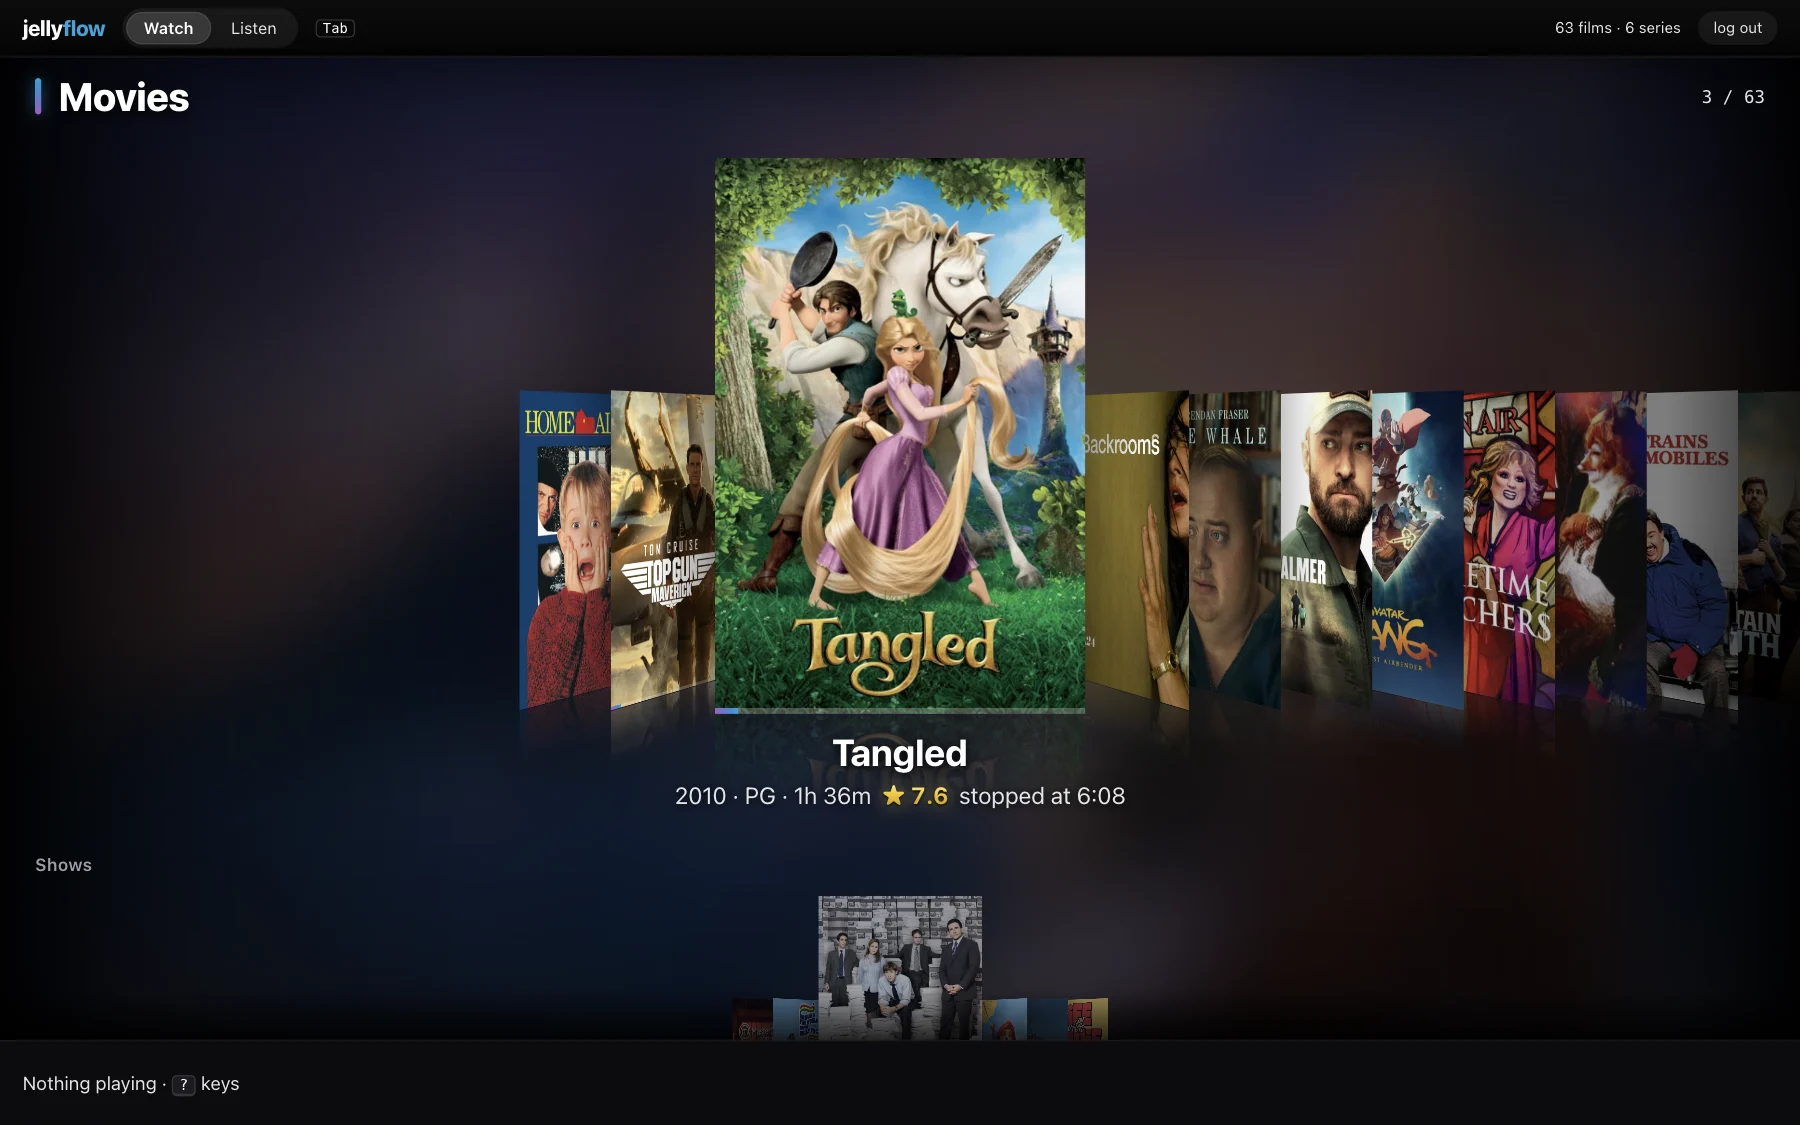
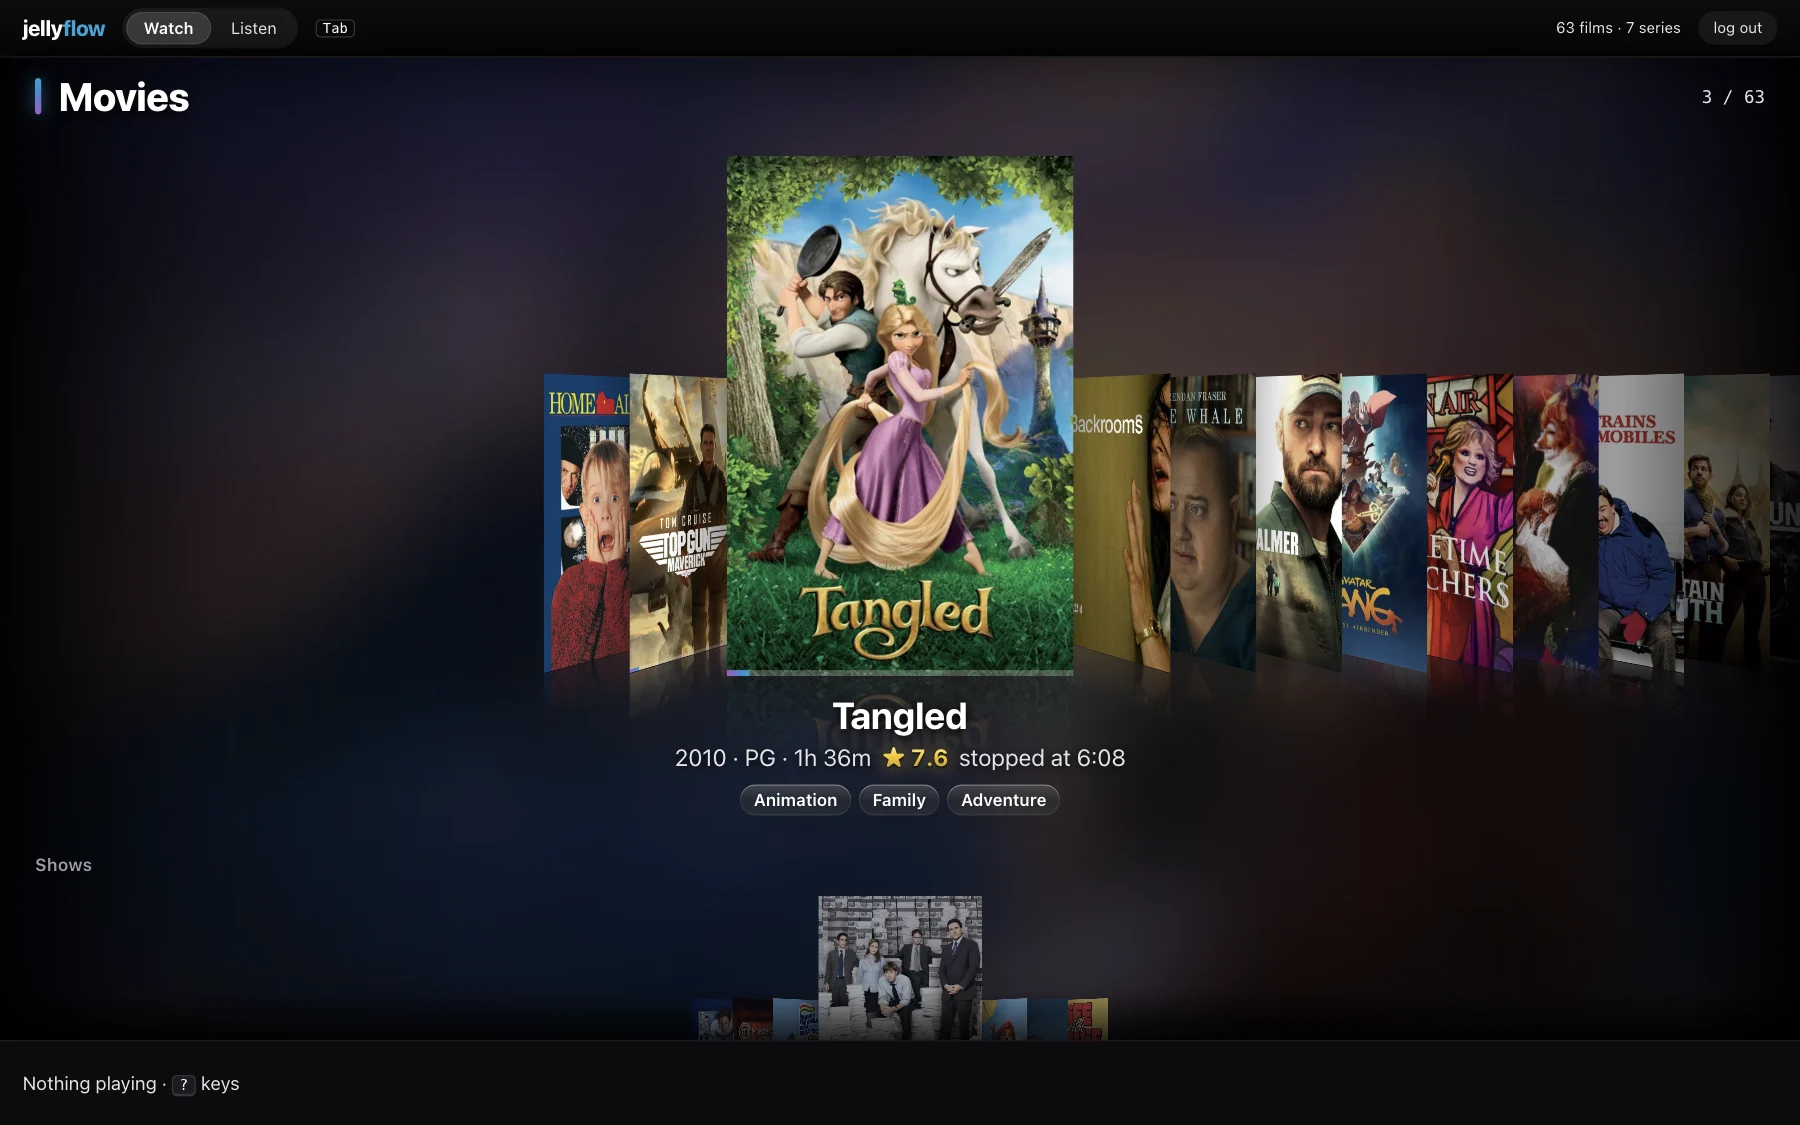
Merge pull request #3 from popconst/genre-labels
Watch: genre labels under the title in the middle

Changed region(s): [[0.28, 0.1244, 1.0, 0.7156], [0.8711, 0.0, 0.9022, 0.0311], [0.3733, 0.9022, 0.4044, 0.9333]]

diff --git a/src/web/Watch.svelte b/src/web/Watch.svelte
@@ -34,10 +34,12 @@
   /** How far down a poster's reflection shows, and how much of it a row keeps clear below it (in poster heights) */
   const REFLECTION = 0.16
   const BELOW_FLOOR = 0.08
-  /** Above each row its name: big over the row with the keys, so there's no doubt which it is; under that one, its title (px) */
+  /** Above each row its name: big over the row with the keys, so there's no doubt which it is; under that one, its title, what it is and its genres (px) */
   const LABEL = 30
   const LABEL_ON = 54
-  const CAPTION = 72
+  const CAPTION = 104
+  /** How many genres the caption shows: the main ones, first as Jellyfin lists them */
+  const GENRES = 3
   const GAP = 4
   /** Rows on the page around the one with the keys: one above, to go back up to; three below */
   const ABOVE = 1
@@ -344,15 +346,16 @@
     if (rest && t && key !== 'search') at[key] = t.id
   }
 
-  /** Under the row with the keys: what it's resting on (its rating apart, in gold) */
-  function caption(t: Tile): { text: string; score?: number | undefined; more?: string } {
+  /** Under the row with the keys: what it's resting on (its rating apart, in gold), and its main genres */
+  function caption(t: Tile): { text: string; score?: number | undefined; more?: string; genres: string[] } {
+    const title = t.title
+    const genres = title.genres.slice(0, GENRES)
     const e = t.episode
     if (e) {
-      return { text: `${resumable(e) ? '' : 'Next: '}${episodeCode(e)} · ${e.title}${resumable(e) ? ` · ${runtime(left(e))} left` : ''}` }
+      return { text: `${resumable(e) ? '' : 'Next: '}${episodeCode(e)} · ${e.title}${resumable(e) ? ` · ${runtime(left(e))} left` : ''}`, genres }
     }
-    const title = t.title
     const more = title.kind === 'movie' && resumable(title) ? `stopped at ${duration(title.resume)}` : status(title)
-    return { text: facts(title), score: title.score, more }
+    return { text: facts(title), score: title.score, more, genres }
   }
 
   /**
@@ -476,6 +479,9 @@
             <div class="sub">
               {c.text}{#if c.score}<Score value={c.score} />{:else if c.text && c.more}{' · '}{/if}{c.more}
             </div>
+            {#if c.genres.length}
+              <div class="genres">{#each c.genres as genre (genre)}<span>{genre}</span>{/each}</div>
+            {/if}
           {/if}
         </div>
       {/if}
@@ -660,6 +666,22 @@
   .caption .sub {
     color: var(--text-2);
     font-size: clamp(15px, 1.3vw, 19px);
+  }
+  .caption .genres {
+    display: flex;
+    justify-content: center;
+    gap: 6px;
+    margin-top: 8px;
+  }
+  .caption .genres span {
+    padding: 3px 11px;
+    border-radius: 999px;
+    font-size: clamp(12px, 0.95vw, 14px);
+    font-weight: 600;
+    color: var(--text);
+    text-shadow: none;
+    background: var(--glass), rgb(0 0 0 / 0.35);
+    box-shadow: var(--glass-edge);
   }
   /* on the posters, in rows shown scaled: sized by the row's scale (--row-scale) to read the same in every row */
   .watched,

diff --git a/README.md b/README.md
@@ -49,7 +49,8 @@ with the same keys. A terminal version comes next and shares the same core.
 - **Watch:** films and series in rows, Netflix style, each row a Cover Flow
   of posters: Continue Watching (`x` takes one off), Movies and Shows newest
   first, then Documentaries, Kids, Action, Comedy, Drama and Thriller (each
-  title in one of them). The row you're on takes most of the screen. A
+  title in one of them). The row you're on takes most of the screen, the
+  title in the middle captioned with its year, rating and main genres. A
   series' page has its seasons and episodes;
   the next episode follows by itself. The player has YouTube's keys; the
   picture is never re-encoded, and sound the browser can't play (Dolby, DTS)
